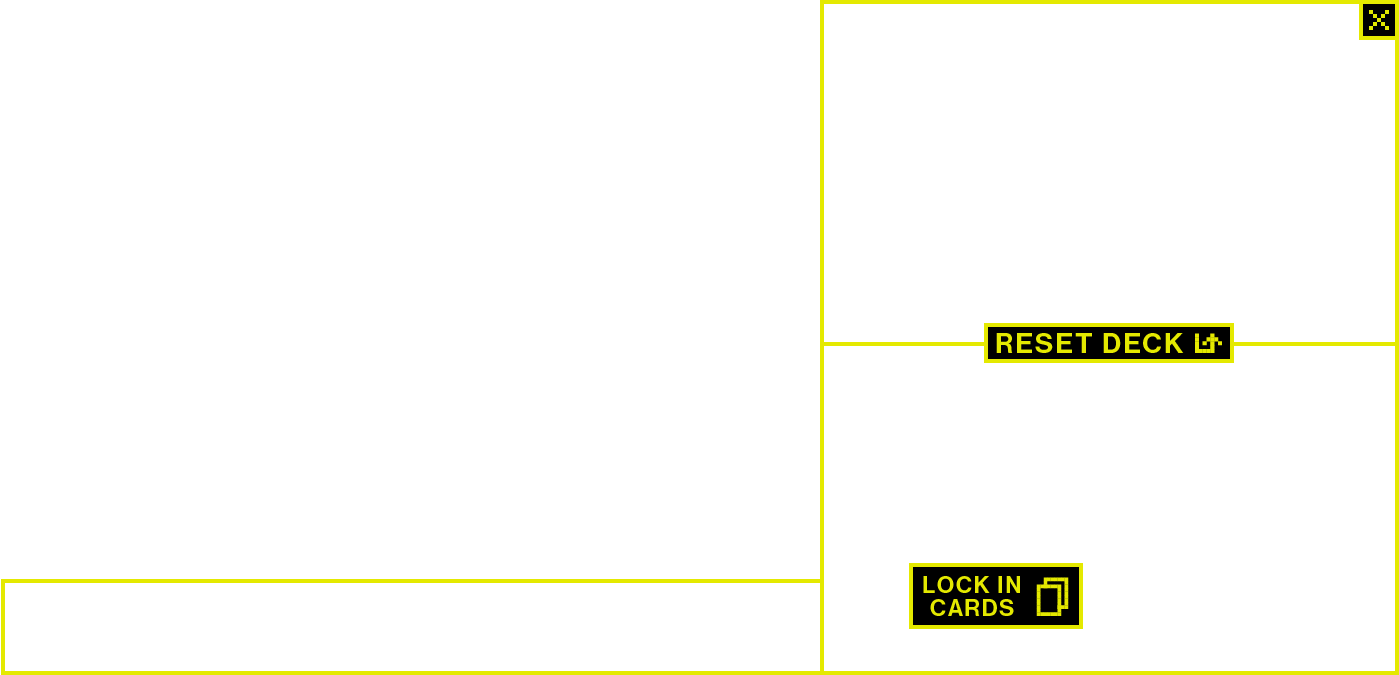
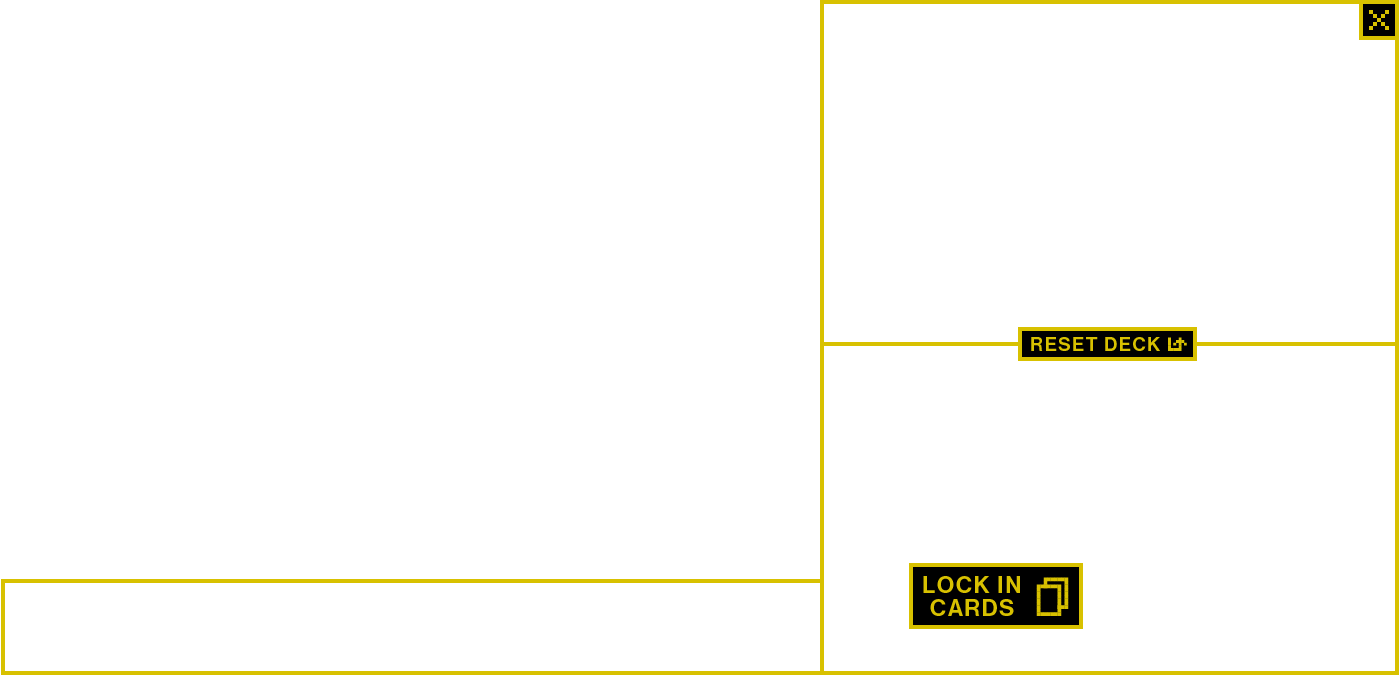
fikset noe i README og endret bakgrunn til noe mørkere

Changed region(s): [[0.0, 0.0, 1.0, 1.0], [0.0, 0.84, 0.6147, 0.8711], [0.6455, 0.8089, 0.7991, 0.9333]]

diff --git a/src/main/java/inf112/skeleton/app/RoboRally.java b/src/main/java/inf112/skeleton/app/RoboRally.java
@@ -165,7 +165,8 @@ public class RoboRally extends InputAdapter implements Screen {
             batch.draw(background2, 0,0, 29,14);
             batch.setProjectionMatrix(font_cam.combined);
             clientPlayer.renderPriority(batch);
-            batch.draw(powerDown, 1072, 32, 199, 106);
+            //batch.draw(powerDown, 1072, 32, 199, 106);
+            batch.draw(powerDown, 1090, 49, 170, 76);
 
         }
 

diff --git a/Deliverables/ObligatoriskOppgave4.md b/Deliverables/ObligatoriskOppgave4.md
@@ -65,7 +65,12 @@ Det meste av arbeid på prosjektet skjer under de faste møtetidspunkter.
   Også fått gjort litt designendringer.
 * I løpet av møtet fant vi litt bugs som måtte fikses f.eks. Lasere skøyt forbi vegger, veggen kunne vi gå gjennom, men
   det ble også fikset i løpet av dagen, av Marius og Anthony som satt litt ekstra for å fikse veggene helt.
-* fant en bug om at hvis man står intil  
+* fant en bug om at hvis man står ved siden av en motspiller i retning mot den spilleren og går bakover, 
+  altså ikke mot spiller, så ville mot spiller bli pushet og spiller ville gå bakover. 
+* Det ble også skrevet en manuell test for PowerDown i dette dokumentet lengre nede. 
+* BoosterTest ble også ferdig, både for single og dobble boostere/rullebaner. 
+
+  
   
   
 ***
